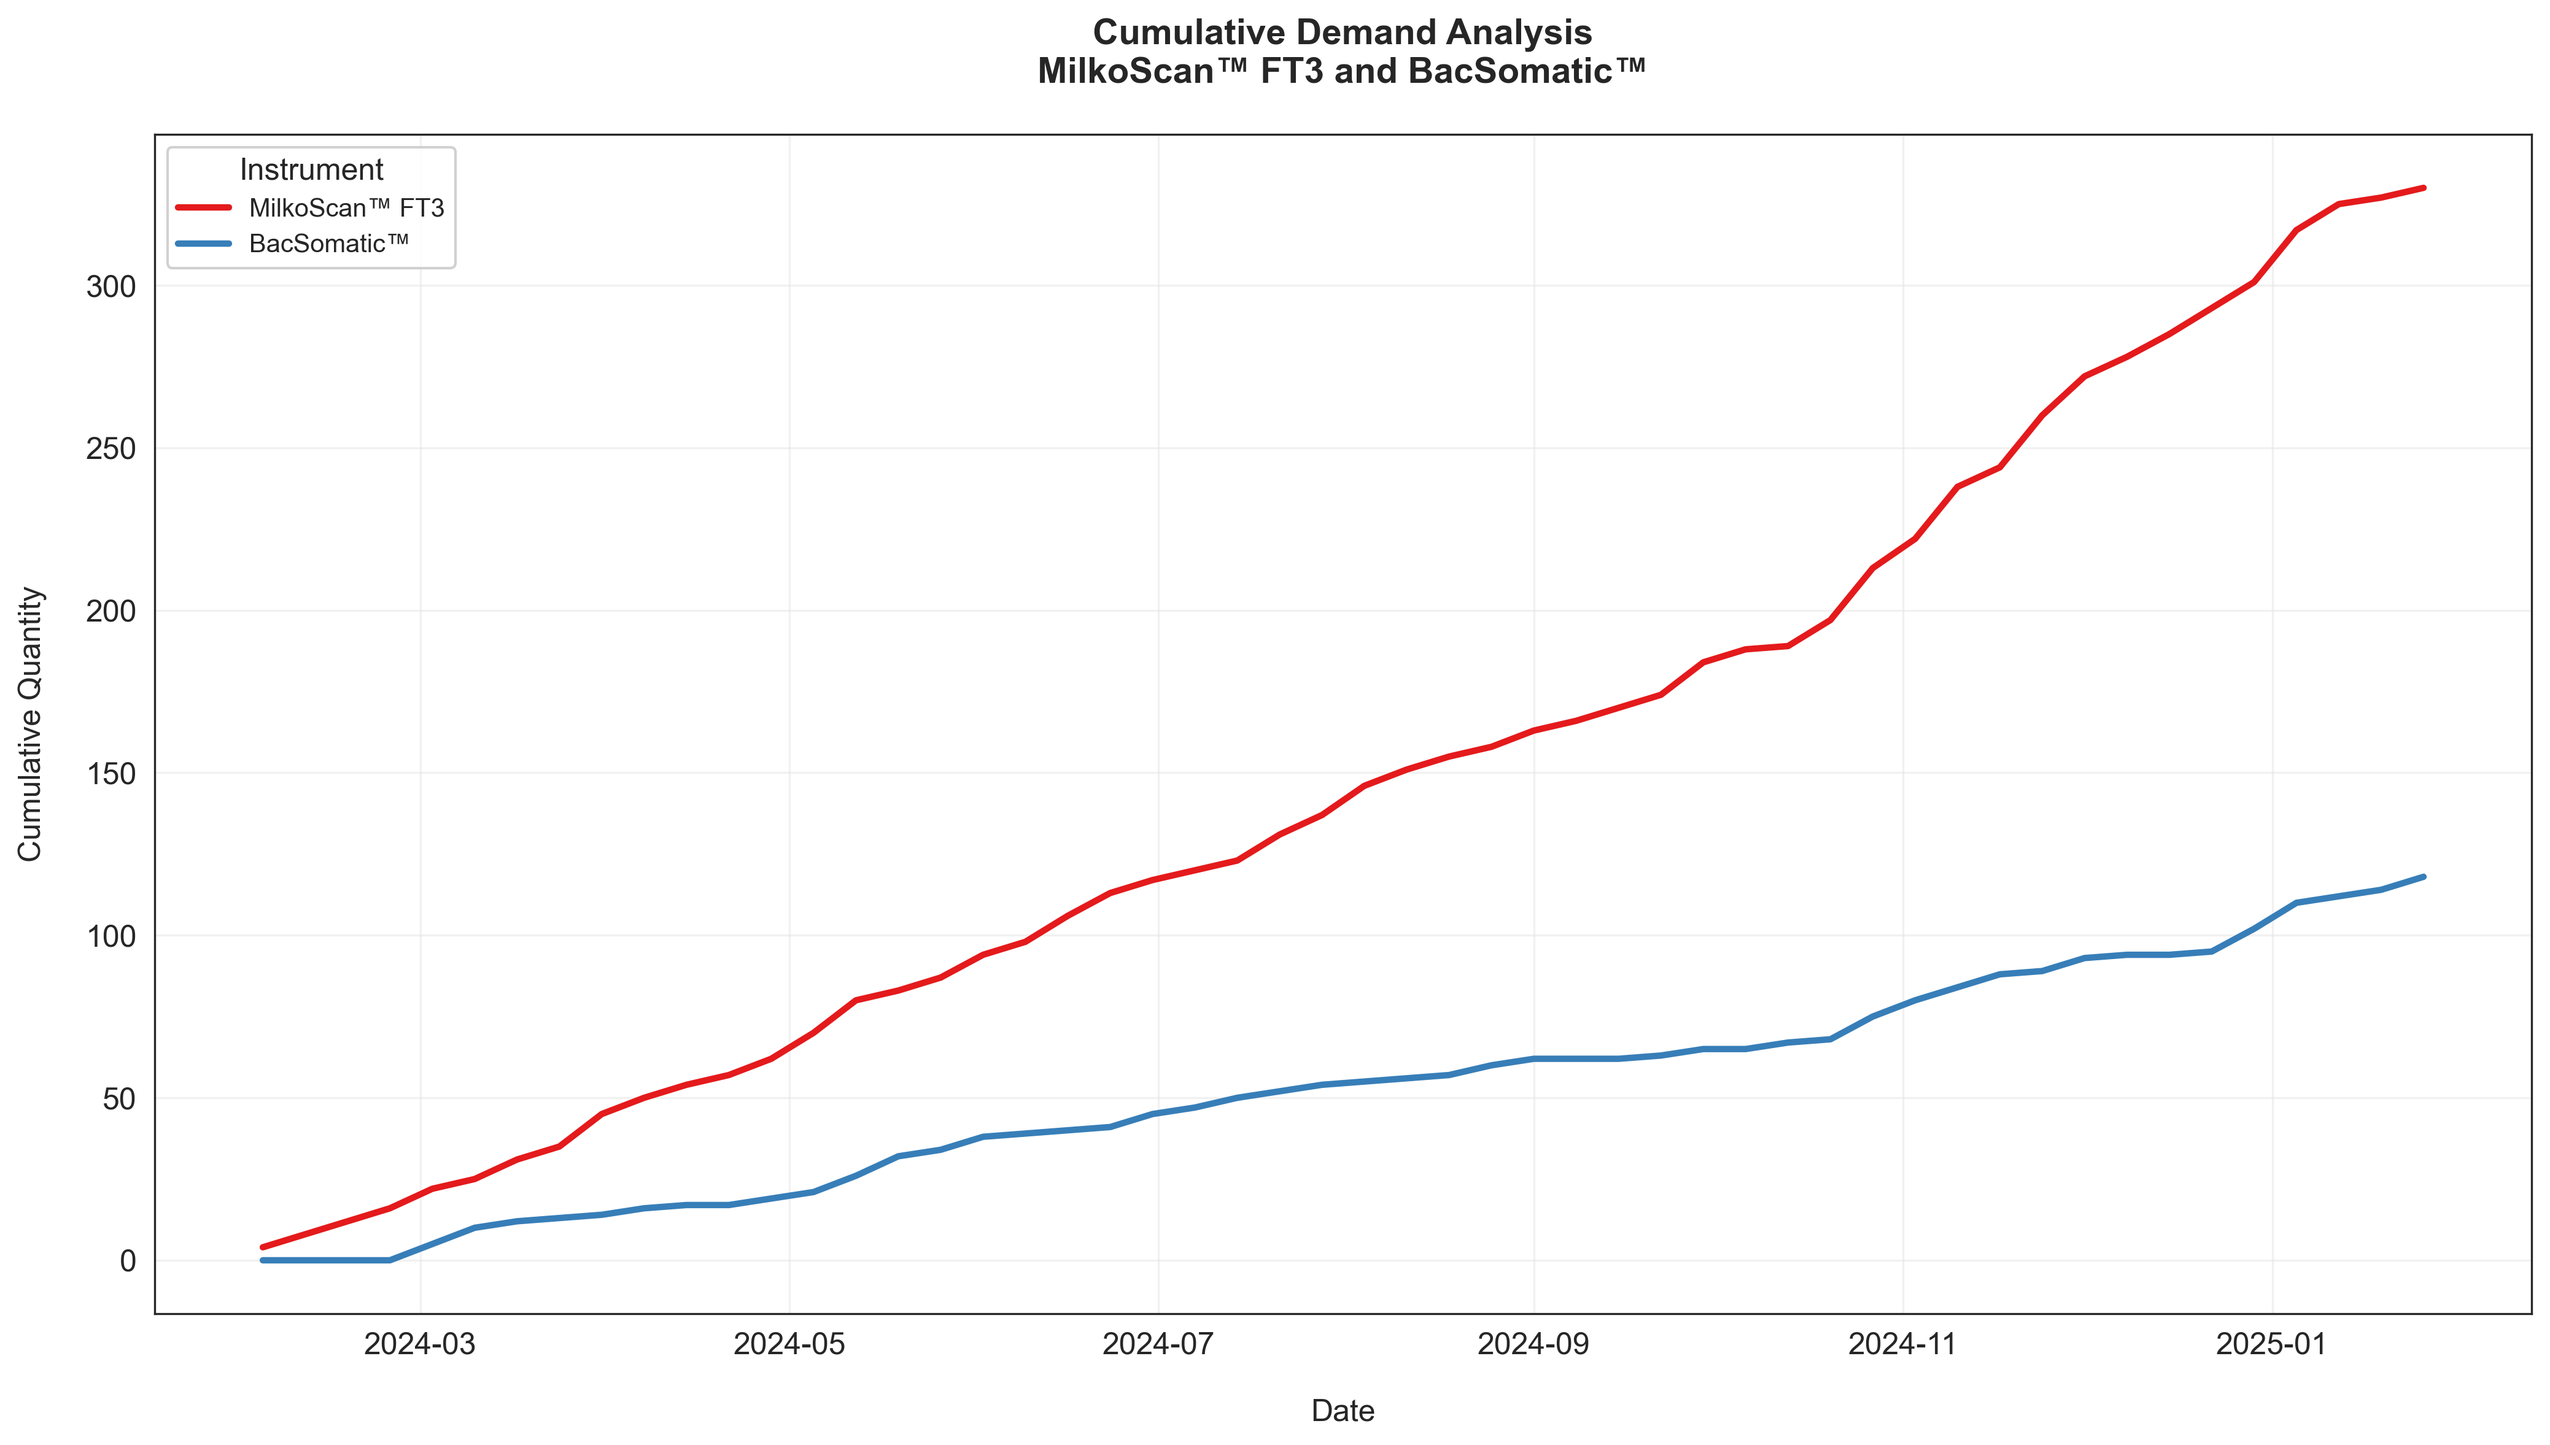
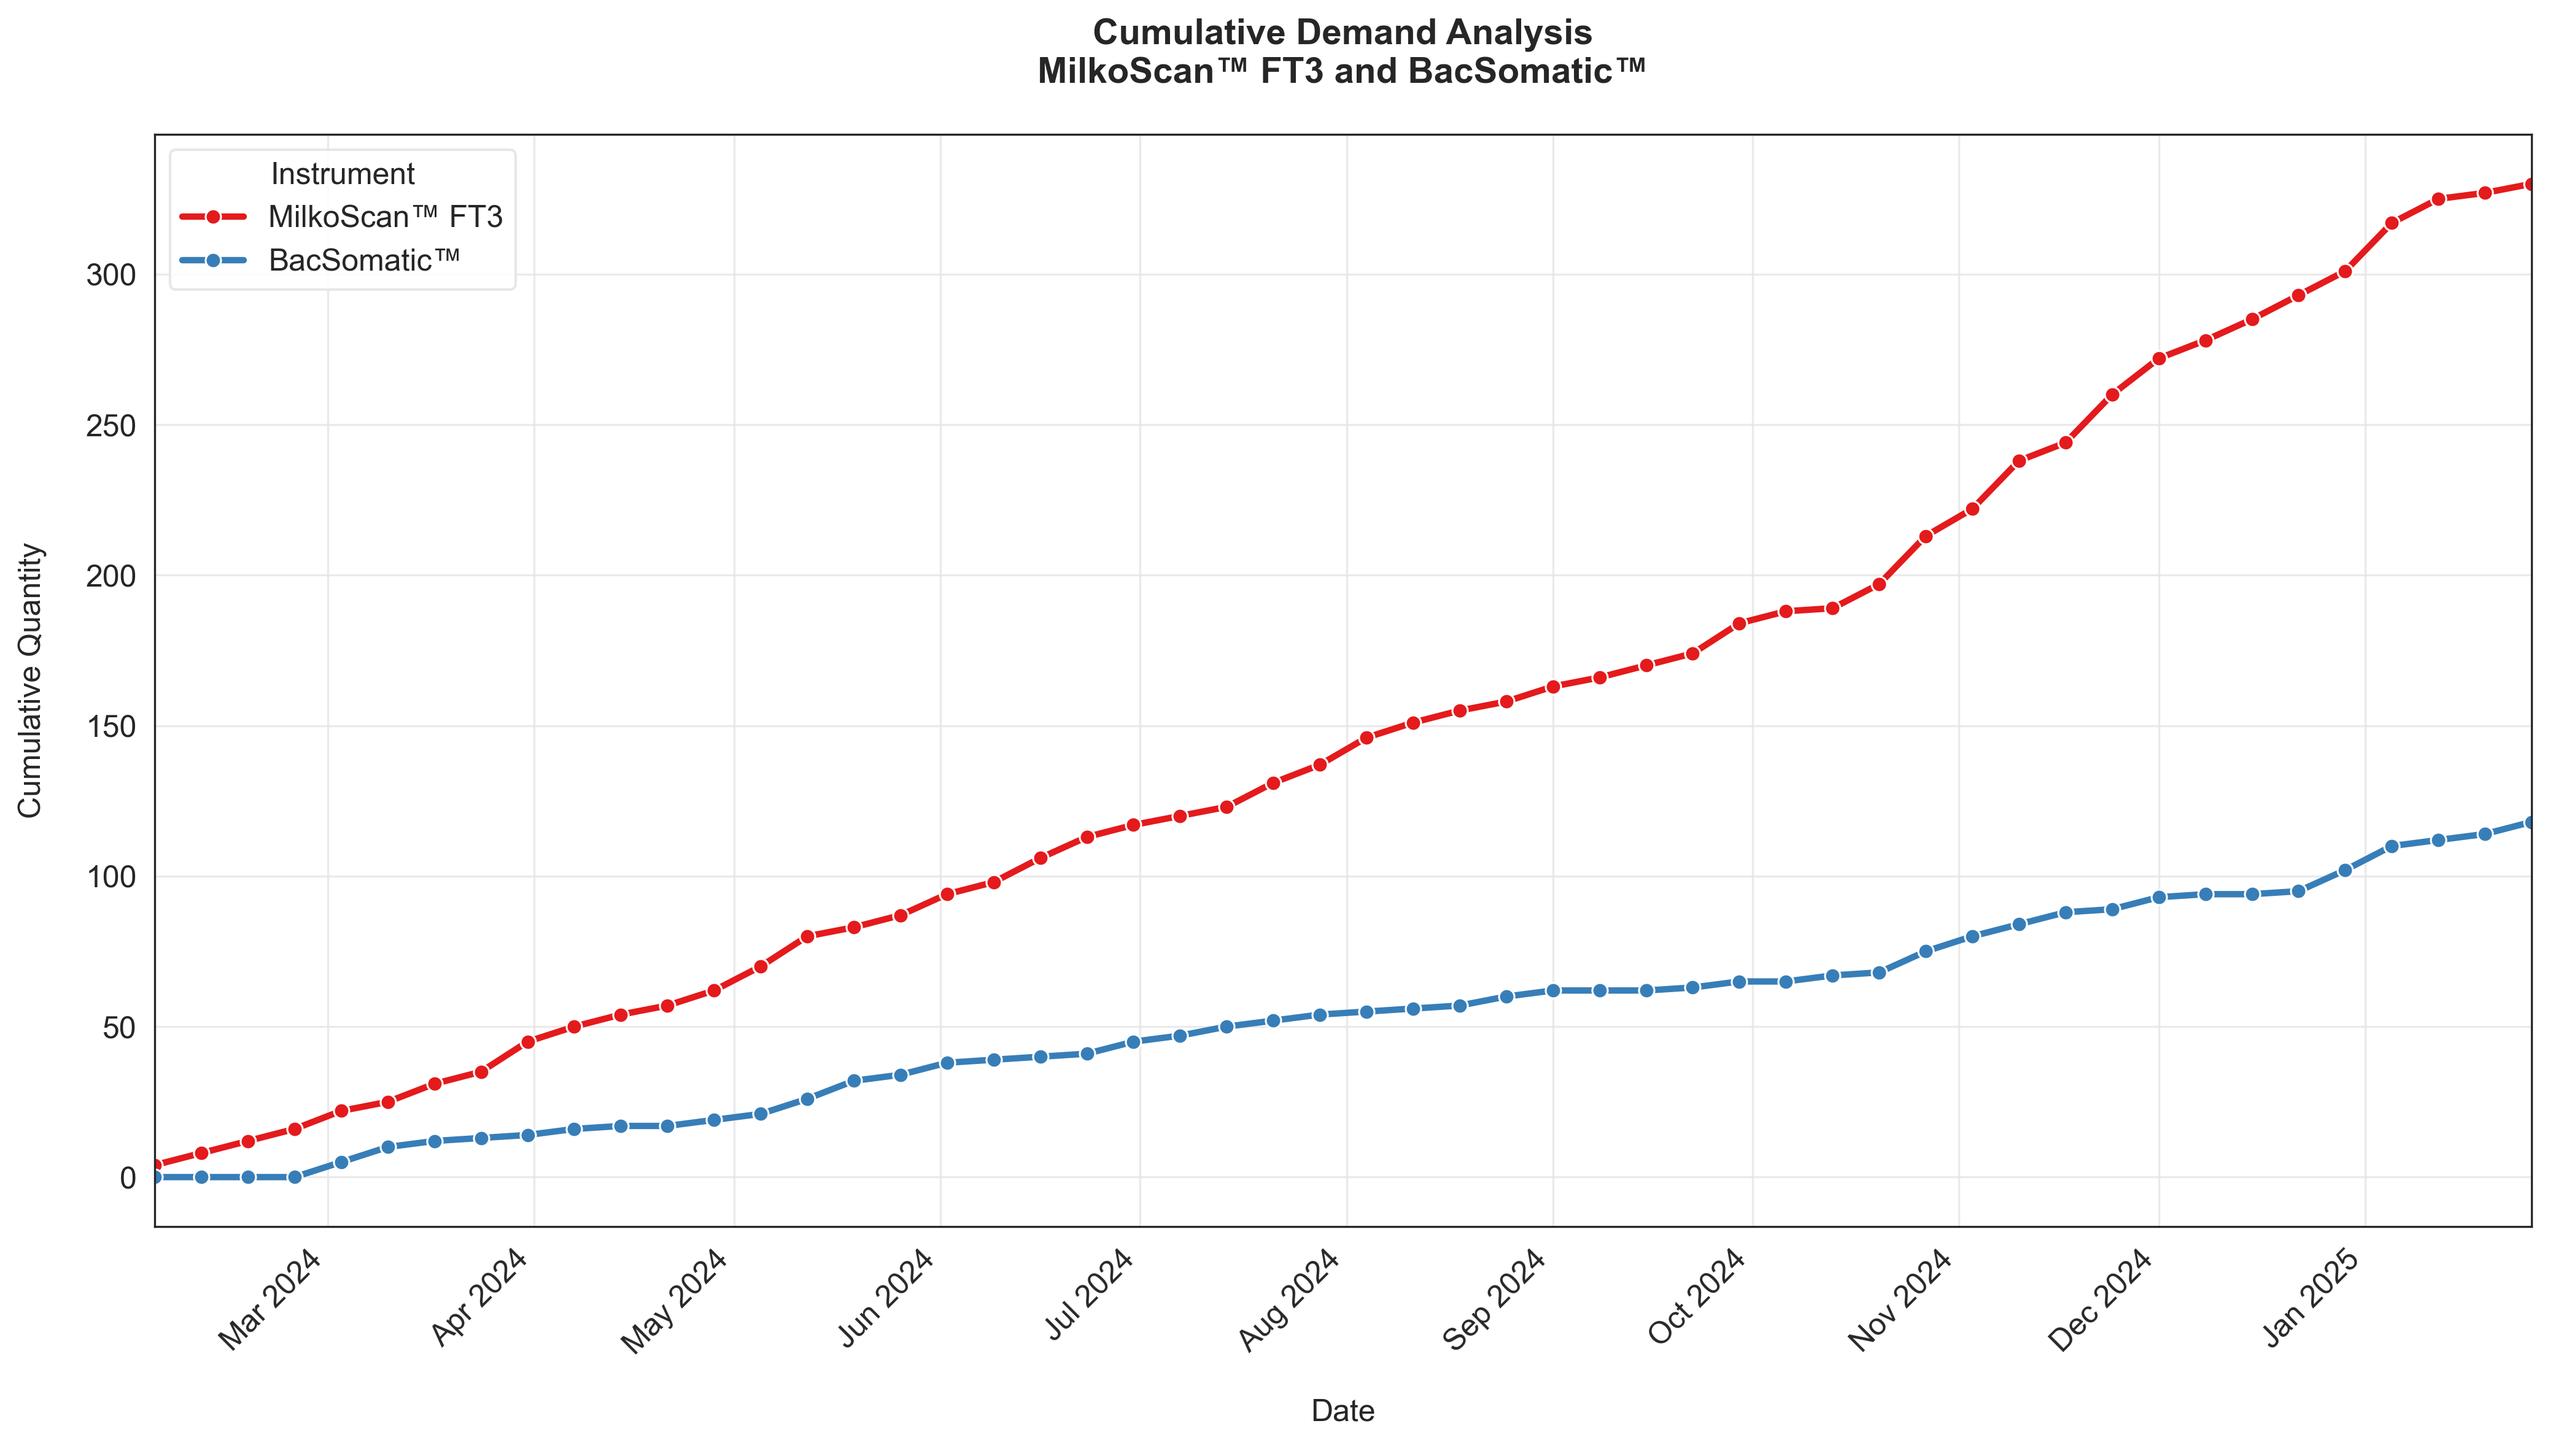
final plots

diff --git a/demand.py b/demand.py
@@ -32,6 +32,68 @@ instrument_colors = {
     'BacSomatic™': colors[1]      # Second color from Set1 (typically blue)
 }
 
+# Create a function for consistent plot styling
+def apply_consistent_style(ax, title, xlabel, ylabel, legend_title=None):
+    """Apply consistent styling to all plots"""
+    # Title styling
+    ax.set_title(title, pad=20, fontsize=14, fontweight='bold')
+    
+    # Axis labels
+    ax.set_xlabel(xlabel, labelpad=15, fontsize=12)
+    ax.set_ylabel(ylabel, labelpad=15, fontsize=12)
+    
+    # Grid styling
+    ax.grid(True, which='major', color='#E5E5E5', linestyle='-', alpha=0.8)
+    ax.set_axisbelow(True)  # Ensure grid is behind the data
+    
+    # Background
+    ax.set_facecolor('white')
+    
+    # Legend (check if legend exists and then style it using a more compatible approach)
+    legend = ax.get_legend()
+    if legend is not None:
+        # Set legend properties in a version-compatible way
+        try:
+            # Try setting frame alpha property directly
+            legend.get_frame().set_alpha(0.9)
+        except:
+            # If that fails, don't modify alpha
+            pass
+            
+        # These properties should work across versions
+        legend.get_frame().set_facecolor('white')
+        legend.get_frame().set_edgecolor('#E5E5E5')
+        
+        # Set legend title if provided
+        if legend_title:
+            legend.set_title(legend_title)
+            legend.get_title().set_fontsize(12)
+    
+    # Add date axis formatting if the x-axis contains dates
+    if isinstance(ax.get_xlim()[0], (np.float64, float)):
+        try:
+            dates = plt.matplotlib.dates.num2date(ax.get_xlim())
+            set_consistent_date_axis(ax, ax.get_lines()[0].get_xdata())
+        except:
+            pass
+    
+    # Tight layout
+    plt.tight_layout()
+    
+    return ax
+
+def set_consistent_date_axis(ax, data_index):
+    """Apply consistent date axis formatting"""
+    # Set date limits to cover the entire dataset
+    date_min = data_index.min()
+    date_max = data_index.max()
+    ax.set_xlim(date_min, date_max)
+    
+    # Set monthly ticks (changed interval from 2 to 1 to show all months)
+    ax.xaxis.set_major_locator(plt.matplotlib.dates.MonthLocator(interval=1))
+    ax.xaxis.set_major_formatter(plt.matplotlib.dates.DateFormatter('%b %Y'))
+    plt.setp(ax.xaxis.get_majorticklabels(), rotation=45, ha='right')
+
 # Create a directory to save plots if it doesn't exist
 plots_dir = 'plots'
 if not os.path.exists(plots_dir):
@@ -80,29 +142,18 @@ for refurbished in valid_refurbished:
 weekly_data = pivot_data.resample('W').sum()
 
 # First visualization (Weekly demand smoothed)
-plt.figure(facecolor='white')
-ax = plt.gca()
-ax.set_facecolor('white')
+fig, ax = plt.subplots(figsize=(14, 8), facecolor='white')
 for instrument in ['MilkoScan™ FT3', 'BacSomatic™']:
-    sns.lineplot(data=weekly_data[instrument], label=instrument, dashes=False, markers=True,
-                linewidth=2.5, markersize=8, color=instrument_colors[instrument])
+    sns.lineplot(ax=ax, data=weekly_data[instrument], label=instrument, 
+                marker='o',  # Add circular markers
+                markersize=6,  # Slightly smaller than the ratio plot
+                linewidth=2.5, 
+                color=instrument_colors[instrument])
 
-# Enforce monthly labels on the x-axis
-plt.gca().xaxis.set_major_locator(plt.matplotlib.dates.MonthLocator())
-plt.gca().xaxis.set_major_formatter(plt.matplotlib.dates.DateFormatter('%b %Y'))
-plt.gcf().autofmt_xdate()
+set_consistent_date_axis(ax, weekly_data.index)
+apply_consistent_style(ax, "Weekly Demand Trends\nMilkoScan™ FT3 and BacSomatic™", 
+                      "Month", "Quantity Ordered", "Instrument")
 
-plt.title("Weekly Demand Trends\nMilkoScan™ FT3 and BacSomatic™", pad=20)
-plt.xlabel("Month", labelpad=15)
-plt.ylabel("Quantity Ordered", labelpad=15)
-plt.legend(title="Instrument", title_fontsize=12, fontsize=10, framealpha=0.9)
-
-# Enhanced grid settings
-ax.grid(True, which='major', color='#E5E5E5', linestyle='-', alpha=0.8)
-ax.grid(True, which='minor', color='#E5E5E5', linestyle='--', alpha=0.5)
-ax.set_axisbelow(True)  # Ensure grid is behind the data
-
-plt.tight_layout()
 plt.savefig(os.path.join(plots_dir, 'weekly_demand_smoothed.png'), dpi=300, bbox_inches='tight', facecolor='white')
 plt.close()
 
@@ -117,72 +168,37 @@ print(weekly_data.sum())
 print("\n=== AVERAGE WEEKLY DEMAND ===")
 print(weekly_data.mean())
 
-print("\n=== CORRELATION MATRIX ===")
-print(weekly_data[['MilkoScan™ FT3', 'BacSomatic™']].corr())
-
 print("\n=== HEAD OF RATIO TIME SERIES ===")
 print(weekly_data['Ratio_MilkoScan_to_BacSomatic'].head())
 
 # Visualization 2: Ratio over time
-plt.figure(facecolor='white')
-ax = plt.gca()
-ax.set_facecolor('white')
-sns.lineplot(x=weekly_data.index, y=weekly_data['Ratio_MilkoScan_to_BacSomatic'], 
+fig, ax = plt.subplots(figsize=(14, 8), facecolor='white')
+sns.lineplot(ax=ax, x=weekly_data.index, y=weekly_data['Ratio_MilkoScan_to_BacSomatic'], 
              color=instrument_colors['MilkoScan™ FT3'], marker='o', markersize=8, linewidth=2.5,
              label='MilkoScan™ FT3 / BacSomatic™')
-plt.axhline(1, linestyle='--', color='gray', alpha=0.8, label='Equal Demand')
-plt.title("Demand Ratio Analysis\nMilkoScan™ FT3 to BacSomatic™", pad=20)
-plt.xlabel("Date", labelpad=15)
-plt.ylabel("Ratio", labelpad=15)
-plt.legend(fontsize=10, framealpha=0.9)
-plt.grid(True, color='#E5E5E5', linestyle='-', alpha=0.5)
-plt.tight_layout()
+ax.axhline(1, linestyle='--', color='gray', alpha=0.8, label='Equal Demand')
+
+set_consistent_date_axis(ax, weekly_data.index)
+apply_consistent_style(ax, "Demand Ratio Analysis\nMilkoScan™ FT3 to BacSomatic™", 
+                      "Date", "Ratio")
+
 plt.savefig(os.path.join(plots_dir, 'ratio_over_time.png'), dpi=300, bbox_inches='tight', facecolor='white')
 plt.close()
 
-# Visualization 3: Correlation heatmap
-plt.figure(facecolor='white')
-ax = plt.gca()
-ax.set_facecolor('white')
-correlation = weekly_data[['MilkoScan™ FT3', 'BacSomatic™']].corr()
-sns.heatmap(correlation, annot=True, cmap="RdBu_r", vmin=-1, vmax=1, 
-            annot_kws={"size": 12}, square=True, fmt=".2f",
-            cbar_kws={"shrink": .8})
-plt.title("Correlation Analysis", pad=20)
-plt.tight_layout()
-plt.savefig(os.path.join(plots_dir, 'correlation_heatmap.png'), dpi=300, bbox_inches='tight', facecolor='white')
-plt.close()
-
-# Visualization 4: Cross-correlation (interaction analysis)
-plt.figure(facecolor='white')
-ax = plt.gca()
-ax.set_facecolor('white')
-lags = np.arange(-8, 9)
-cross_corr = [weekly_data['MilkoScan™ FT3'].corr(weekly_data['BacSomatic™'].shift(lag)) for lag in lags]
-sns.barplot(x=lags, y=cross_corr, color=instrument_colors['MilkoScan™ FT3'], alpha=0.7)
-plt.axhline(0, color='gray', linewidth=1, linestyle='--')
-plt.title("Cross-correlation Analysis\nMilkoScan™ FT3 vs. BacSomatic™", pad=20)
-plt.xlabel("Lag (Weeks)\nNegative: BacSomatic leads, Positive: MilkoScan leads", labelpad=15)
-plt.ylabel("Correlation Coefficient", labelpad=15)
-plt.grid(True, color='#E5E5E5', linestyle='-', alpha=0.5)
-plt.tight_layout()
-plt.savefig(os.path.join(plots_dir, 'cross_correlation.png'), dpi=300, bbox_inches='tight', facecolor='white')
-plt.close()
-
 # Visualization 5: Cumulative demand over time
-plt.figure(facecolor='white')
-ax = plt.gca()
-ax.set_facecolor('white')
+fig, ax = plt.subplots(figsize=(14, 8), facecolor='white')
 cumulative_data = weekly_data[['MilkoScan™ FT3', 'BacSomatic™']].cumsum()
 for instrument in ['MilkoScan™ FT3', 'BacSomatic™']:
-    sns.lineplot(data=cumulative_data[instrument], label=instrument, dashes=False, 
-                markers=True, linewidth=2.5, markersize=8, color=instrument_colors[instrument])
-plt.title("Cumulative Demand Analysis\nMilkoScan™ FT3 and BacSomatic™", pad=20)
-plt.xlabel("Date", labelpad=15)
-plt.ylabel("Cumulative Quantity", labelpad=15)
-plt.legend(title="Instrument", title_fontsize=12, fontsize=10, framealpha=0.9)
-plt.grid(True, color='#E5E5E5', linestyle='-', alpha=0.5)
-plt.tight_layout()
+    sns.lineplot(ax=ax, data=cumulative_data[instrument], label=instrument,
+                marker='o',  # Add circular markers
+                markersize=6,  # Slightly smaller than the ratio plot
+                linewidth=2.5,
+                color=instrument_colors[instrument])
+
+set_consistent_date_axis(ax, weekly_data.index)
+apply_consistent_style(ax, "Cumulative Demand Analysis\nMilkoScan™ FT3 and BacSomatic™", 
+                      "Date", "Cumulative Quantity", "Instrument")
+
 plt.savefig(os.path.join(plots_dir, 'cumulative_demand.png'), dpi=300, bbox_inches='tight', facecolor='white')
 plt.close()
 
